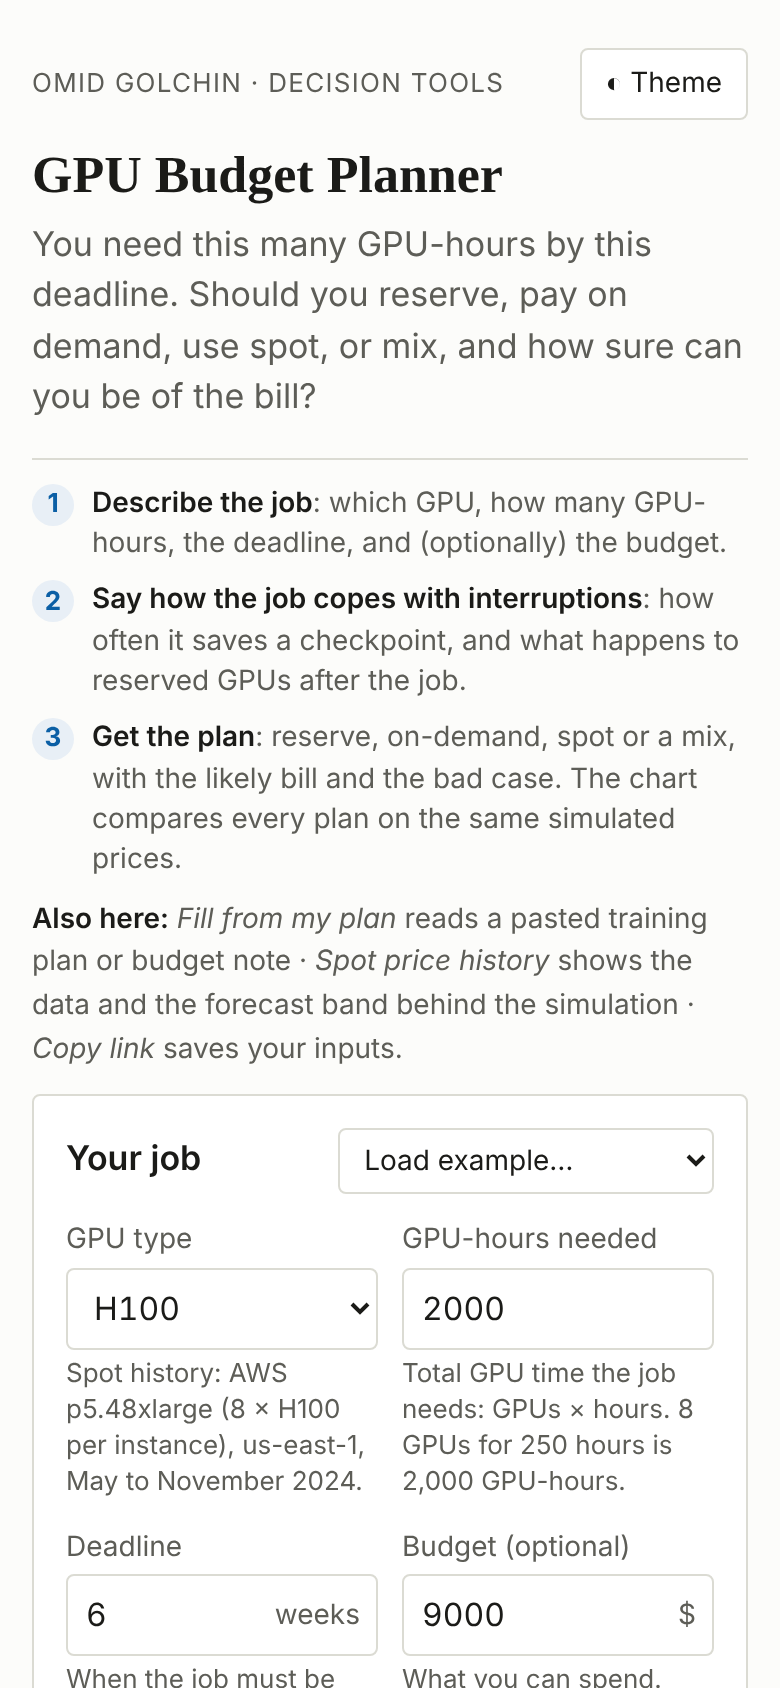
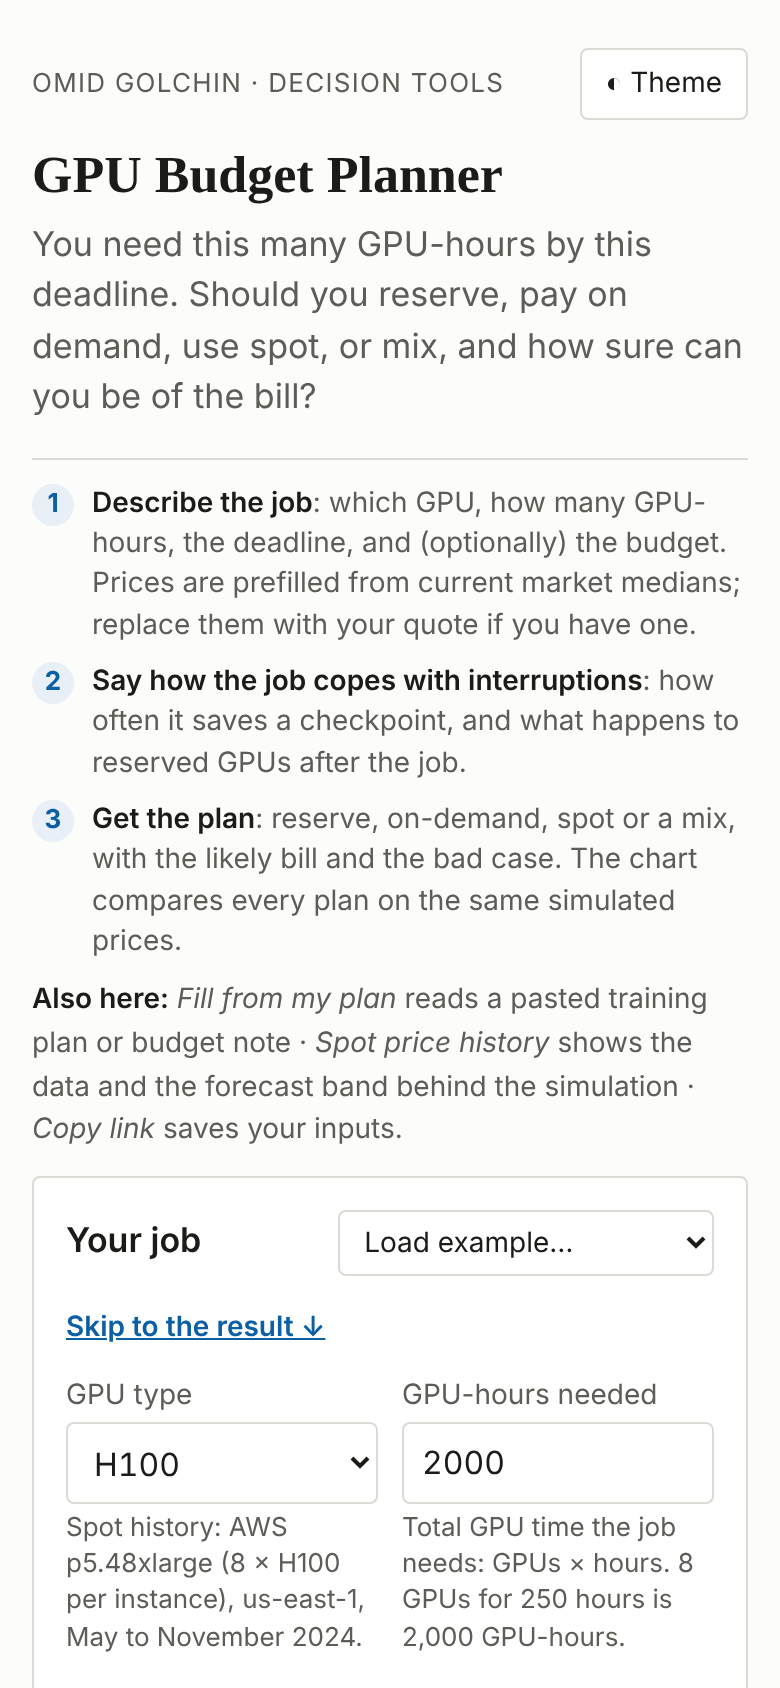
Flag the reclaim default as a guess; show what the reservation setting does; explain lockstep and block length
Kit: every ? has a hover title, a Skip to the result link on narrow screens, and an example banner for prefilled demo content. README, hero GIF and screenshots regenerated from the page.

diff --git a/docs/app.js b/docs/app.js
@@ -197,6 +197,7 @@
       }
       if (W.pMiss > 0) body += " This plan itself finishes late in " + F.pct(W.pMiss, 0) + " of runs.";
     }
+    body += " Reservations are priced " + (v.after === "reuse" ? "on this job's hours only, because you said the reserved GPUs go to other work after the deadline." : "for every hour of the " + v.term + "-month term, because you said the reserved GPUs sit idle after the deadline.");
     $("vTitle").textContent = title; $("vBody").textContent = body;
     $("verdict").className = "panel verdict " + rec.cls;
     last.title = title; last.body = body;
@@ -224,7 +225,7 @@
     var tailTxt = "The 95th percentile bill for the recommended plan is " + F.money(W.p95) +
       "; the average of the worst 5% of bills (the expected shortfall, Acerbi & Tasche 2002) is " + F.money(W.es95) +
       ", " + F.pct((W.es95 - W.p95) / W.p95, 1) + " higher. Budget against the shortfall, not the percentile.";
-    c.push([v.budget !== null && W.es95 > v.budget ? "warn" : "info", "TAIL RISK", "Expected shortfall", tailTxt]);
+    c.push([v.budget !== null && W.es95 > v.budget ? "warn" : "info", "BAD CASE", "Expected shortfall", tailTxt]);
     /* Budget. */
     if (rec.reason === "budget-infeasible") {
       c.push(["fail", "OVER BUDGET", "Budget", "No fixed-price plan fits " + F.money(v.budget) +
@@ -243,10 +244,10 @@
       F.int(lostW) + (Math.round(lostW) === 1 ? " GPU-hour" : " GPU-hours") + (lostW > 0 ? " (" + F.pct(lostW / v.hours, lostW / v.hours < 0.01 ? 1 : 0) + " of the job)" : "") + "." : "";
     if (last.out1 && last.out1.recommendation.id !== rec.id) {
       var W1 = byId(last.out1)[last.out1.recommendation.id];
-      c.push(["warn", "CHECKPOINTS", "Checkpoint interval", fleet + "A job that runs its nodes in lockstep stops whenever any one is reclaimed, and loses half a checkpoint interval of everyone's work." + redone +
+      c.push(["warn", "CHECKPOINTS", "Checkpoint interval", fleet + "A job that runs its nodes in lockstep <button type=\"button\" data-tip=\"lockstep\"></button> stops whenever any one is reclaimed, and loses half a checkpoint interval of everyone's work." + redone +
         " With hourly checkpoints the winner would be " + stratName(last.out1, last.out1.recommendation.id).toLowerCase() + " (median " + F.money(W1.median) + "): checkpoint more often if you can."]);
     } else if (last.out1 && Math.abs(byId(last.out1)[rec.id].median - W.median) > 0.02 * W.median) {
-      c.push(["info", "CHECKPOINTS", "Checkpoint interval", fleet + "A lockstep job stops whenever any node is reclaimed." + redone +
+      c.push(["info", "CHECKPOINTS", "Checkpoint interval", fleet + "A lockstep <button type=\"button\" data-tip=\"lockstep\"></button> job stops whenever any node is reclaimed." + redone +
         " Hourly checkpoints would put this plan's median at " + F.money(byId(last.out1)[rec.id].median) + " instead of " + F.money(W.median) + "."]);
     } else if (v.reclaim > 0) {
       c.push(["ok", "CHECKPOINTS", "Checkpoint interval", fleet + "With nodes reclaimed " + reclaimTxt + ", a job this size loses little to interruptions at " + v.ckpt + "-hour checkpoints." + redone +
@@ -314,7 +315,7 @@
         lt.textContent = "late " + F.pct(s.pMiss, 0);
       }
     });
-    $("boxCaption").textContent = "Each row: the middle 50% of simulated bills (box), the median (white line), the 5th to 95th percentile (whiskers), and the expected shortfall (diamond). " +
+    $("boxCaption").textContent = "How to read it: each row is one plan. The box holds the middle 50% of simulated bills, the white line is the median, the whiskers run from the 5th to the 95th percentile, and the diamond is not a percentile: it is the expected shortfall, the average of the worst 5% of bills. A plan with a low box but a far-right diamond is cheap on average and painful in a bad month. " +
       "All plans are scored on the same " + last.v.paths + " simulated price paths. Rows marked late miss the deadline in more than 5% of runs.";
   }
   function drawFan() {
@@ -378,6 +379,8 @@
     after: { t: "Reserved GPUs after the deadline", d: "If the reservation outlasts the job, the remaining hours are either wasted (you still pay) or used by other work. Only count them as used if your team will really use them." },
     reclaim: { t: "Spot reclaims", d: "How often the provider takes spot capacity back. Each reclaim costs the work since the last checkpoint plus restart time. The simulation draws reclaims at random at this rate (a Poisson process) for each node." },
     paths: { t: "Simulated price paths", d: "Future spot prices are unknown, so the tool builds many plausible price paths by resampling blocks of real price history (a block bootstrap) and prices every plan on each one." },
+    lockstep: { t: "Lockstep training", d: "Distributed training where every node advances together, step by step. If one node is taken away, the whole job stops and resumes from the last checkpoint, so one reclaim costs everyone's work since then, not just that node's." },
+    block: { t: "Bootstrap block length", d: "The simulation builds future spot prices by stitching together random stretches of real price history. This sets how long each stretch is. Longer stretches keep price runs (a week of high prices) intact; 28 days predicted held-out months best." },
     plans: { t: "Reading the plan chart", d: "Each row is a plan. The box covers the middle 50% of simulated bills, the whiskers the 5th to 95th percentile, and the diamond is the expected shortfall: the average of the worst 5% of bills. A plan whose box is low but whose diamond sits far right is cheap on average and risky in a bad month." },
     median: { t: "Median bill", d: "Half the simulated price paths give a lower bill, half a higher one. The typical case, not the worst." },
     es: { t: "Expected shortfall (worst 5%)", d: "The average bill across the worst 5% of simulated outcomes. Budgeting to this, rather than the 95th percentile alone, accounts for how bad the tail can get (Acerbi and Tasche, 2002)." },

diff --git a/docs/index.html b/docs/index.html
@@ -29,7 +29,7 @@
 
   <div class="guide" aria-label="How to use this tool">
     <ol class="steps">
-      <li><b>Describe the job</b>: which GPU, how many GPU-hours, the deadline, and (optionally) the budget.</li>
+      <li><b>Describe the job</b>: which GPU, how many GPU-hours, the deadline, and (optionally) the budget. Prices are prefilled from current market medians; replace them with your quote if you have one.</li>
       <li><b>Say how the job copes with interruptions</b>: how often it saves a checkpoint, and what happens to reserved GPUs after the job.</li>
       <li><b>Get the plan</b>: reserve, on-demand, spot or a mix, with the likely bill and the bad case. The chart compares every plan on the same simulated prices.</li>
     </ol>
@@ -78,16 +78,16 @@
             <option value="idle" selected>Sit idle: you pay for every hour of the term</option>
             <option value="reuse">Go to other work: charge this job only its hours</option>
           </select>
-          <div class="hint">A reservation is a commitment for its whole term. Count only this job's hours if the team will use the GPUs afterwards.</div></div>
+          <div class="hint">This alone can flip the answer. Sit idle: the reservation is charged for every hour of its term, used or not. Other work: only this job's hours are charged to it, as if later work pays for the rest of the term.</div></div>
         <div class="field full"><label for="reclaim">Spot nodes get reclaimed <button type="button" data-tip="reclaim"></button></label>
           <select id="reclaim">
             <option value="0">Never: price cap only</option>
             <option value="0.033333">About once a month per node</option>
-            <option value="0.142857" selected>About once a week per node</option>
+            <option value="0.142857" selected>About once a week per node (default guess)</option>
             <option value="1">About once a day per node</option>
             <option value="3">Several times a day per node</option>
           </select>
-          <div class="hint">Providers take spot capacity back when they need it, whatever the price (AWS stopped interrupting over competing bids in late 2017). Your own logs, or AWS's Spot Instance Advisor for your instance type and region, are the best guide.</div></div>
+          <div class="hint">Providers take spot capacity back when they need it, whatever the price. No logs yet? Once a week per node is a middle-of-the-road guess, not a measurement: try once a day too and see whether the recommendation changes. AWS's Spot Instance Advisor shows an interruption-frequency band for each instance type and region; your own logs beat both.</div></div>
         <div class="field"><label for="onDemand">On-demand price</label><div class="input-wrap"><input id="onDemand" type="number" min="0" step="any" inputmode="decimal"><span class="unit">$/GPU-hour</span></div><div class="hint" id="odHint"></div></div>
         <div class="field"><label for="reserved">Reserved price</label><div class="input-wrap"><input id="reserved" type="number" min="0" step="any" inputmode="decimal"><span class="unit">$/GPU-hour</span></div><div class="hint" id="resHint"></div></div>
       </div>
@@ -125,7 +125,7 @@
     <div class="more-body">
       <div class="fields" style="max-width:560px">
         <div class="field"><label for="cap">Spot price cap</label><div class="input-wrap"><input id="cap" type="number" min="0" step="any" inputmode="decimal" placeholder="On-demand price"><span class="unit">$/GPU-hour</span></div><div class="hint">The most you will pay: on a day the spot price is above it your spot nodes stop. Leave empty for the on-demand price, the default. Capacity reclaims, set in the form, come on top.</div></div>
-        <div class="field"><label for="block">Bootstrap block length</label>
+        <div class="field"><label for="block">Bootstrap block length <button type="button" data-tip="block"></button></label>
           <select id="block"><option value="7">7 days</option><option value="14">14 days</option><option value="28">28 days</option></select>
           <div class="hint">How much price history is resampled at a time. Longer blocks keep longer price runs. 28 days scored best in the coverage backtest.</div></div>
         <div class="field"><label for="paths">Simulated price paths <button type="button" data-tip="paths"></button></label>

diff --git a/docs/tool-common.js b/docs/tool-common.js
@@ -9,6 +9,7 @@
  *   Tool.explain(glossary)         "?" buttons that open a plain-language explanation
  *   Tool.siblings(currentRepo)     the "More tools" footer line, from one shared list
  *   Tool.tabs(tablist)             arrow-key support for a mode switch
+ *   Tool.exampleBanner(form, text) marks prefilled example content where it sits
  *
  * No dependencies. Works from file:// and on GitHub Pages.
  */
@@ -433,6 +434,7 @@
       if (btn.tagName === "BUTTON") btn.type = "button";
       if (!btn.textContent.trim()) btn.textContent = "?";
       btn.setAttribute("aria-label", "What is " + g.t.replace(/[.?:]$/, "") + "?");
+      btn.title = "Explain: " + g.t.replace(/[.?:]$/, "");
       btn.setAttribute("aria-expanded", "false");
       // keep the "?" on the same line as the last word before it
       var prev = btn.previousSibling;
@@ -531,16 +533,45 @@
     sync(); new MutationObserver(sync).observe(list, { subtree: true, attributes: true, attributeFilter: ["aria-selected"] });
   }
 
+
+  /* ---------------- example banner, jump to result ---------------- */
+  // Marks prefilled example content where it sits, so a first-time visitor
+  // does not read the demo verdict as their own. text = null hides it.
+  function exampleBanner(form, text) {
+    if (!form) return;
+    var b = form.querySelector(":scope > .ex-banner");
+    if (!text) { if (b) b.hidden = true; return; }
+    if (!b) {
+      b = document.createElement("p"); b.className = "ex-banner"; b.setAttribute("role", "status");
+      var head = form.querySelector(":scope > .panel-head");
+      if (head && head.nextSibling) form.insertBefore(b, head.nextSibling); else form.insertBefore(b, form.firstChild);
+    }
+    b.hidden = false;
+    b.innerHTML = '<span class="ex-tag">Example</span> ' + text;
+  }
+  // On narrow screens the inputs come first; give a way straight to the result.
+  function jumpLinks() {
+    document.querySelectorAll(".work").forEach(function (w, i) {
+      var form = w.querySelector("form.panel"), v = w.querySelector(".verdict");
+      if (!form || !v || form.querySelector(".jump")) return;
+      if (!v.id) v.id = "result-" + i;
+      var a = document.createElement("a"); a.className = "jump"; a.href = "#" + v.id; a.textContent = "Skip to the result ↓";
+      var head = form.querySelector(":scope > .panel-head");
+      if (head && head.nextSibling) form.insertBefore(a, head.nextSibling); else form.insertBefore(a, form.firstChild);
+    });
+  }
+
   if (typeof document !== "undefined") {
     document.addEventListener("DOMContentLoaded", function () {
       var m = location.pathname.match(/\/([^\/]+)\/(?:docs\/)?(?:index\.html)?$/);
       siblings(m ? m[1] : "");
       tabs();
       alignFields();
+      jumpLinks();
     });
   }
 
-  var api = { explain: explain, alignFields: alignFields, closeTip: closeTip, siblings: siblings, tabs: tabs, TOOLS: TOOLS, readParams: readParams, writeParams: writeParams, copy: copy, fmt: fmt, lineChart: lineChart, niceTicks: niceTicks, assist: assist, _buildPrompt: buildPrompt, _parseReply: parseReply, _quoteFound: quoteFound, _coerce: coerce };
+  var api = { explain: explain, alignFields: alignFields, exampleBanner: exampleBanner, jumpLinks: jumpLinks, closeTip: closeTip, siblings: siblings, tabs: tabs, TOOLS: TOOLS, readParams: readParams, writeParams: writeParams, copy: copy, fmt: fmt, lineChart: lineChart, niceTicks: niceTicks, assist: assist, _buildPrompt: buildPrompt, _parseReply: parseReply, _quoteFound: quoteFound, _coerce: coerce };
   if (typeof module !== "undefined" && module.exports) module.exports = api;
   if (typeof window !== "undefined") window.Tool = api;
 })();

diff --git a/docs/tool.css b/docs/tool.css
@@ -138,3 +138,7 @@ select.example { font-size: var(--fs-small); }
 .fields.sg-on > :not(.sg) { margin-bottom: var(--sp-3); }
 .fields.sg-on > .group-label { margin: var(--sp-2) 0 6px; }
 .field-after:empty { display: none; }
+.ex-banner { margin: 0 0 var(--sp-3); padding: 6px 10px; border-radius: var(--radius); background: var(--accent-soft); color: var(--fg); font-size: var(--fs-small); line-height: 1.45; }
+.ex-banner .ex-tag { display: inline-block; font-size: var(--fs-caption); font-weight: 700; letter-spacing: .04em; text-transform: uppercase; color: var(--accent); margin-right: 4px; }
+.jump { display: none; }
+@media (max-width: 820px) { .jump { display: inline-block; margin: 0 0 var(--sp-3); font-size: var(--fs-small); font-weight: 600; } }
